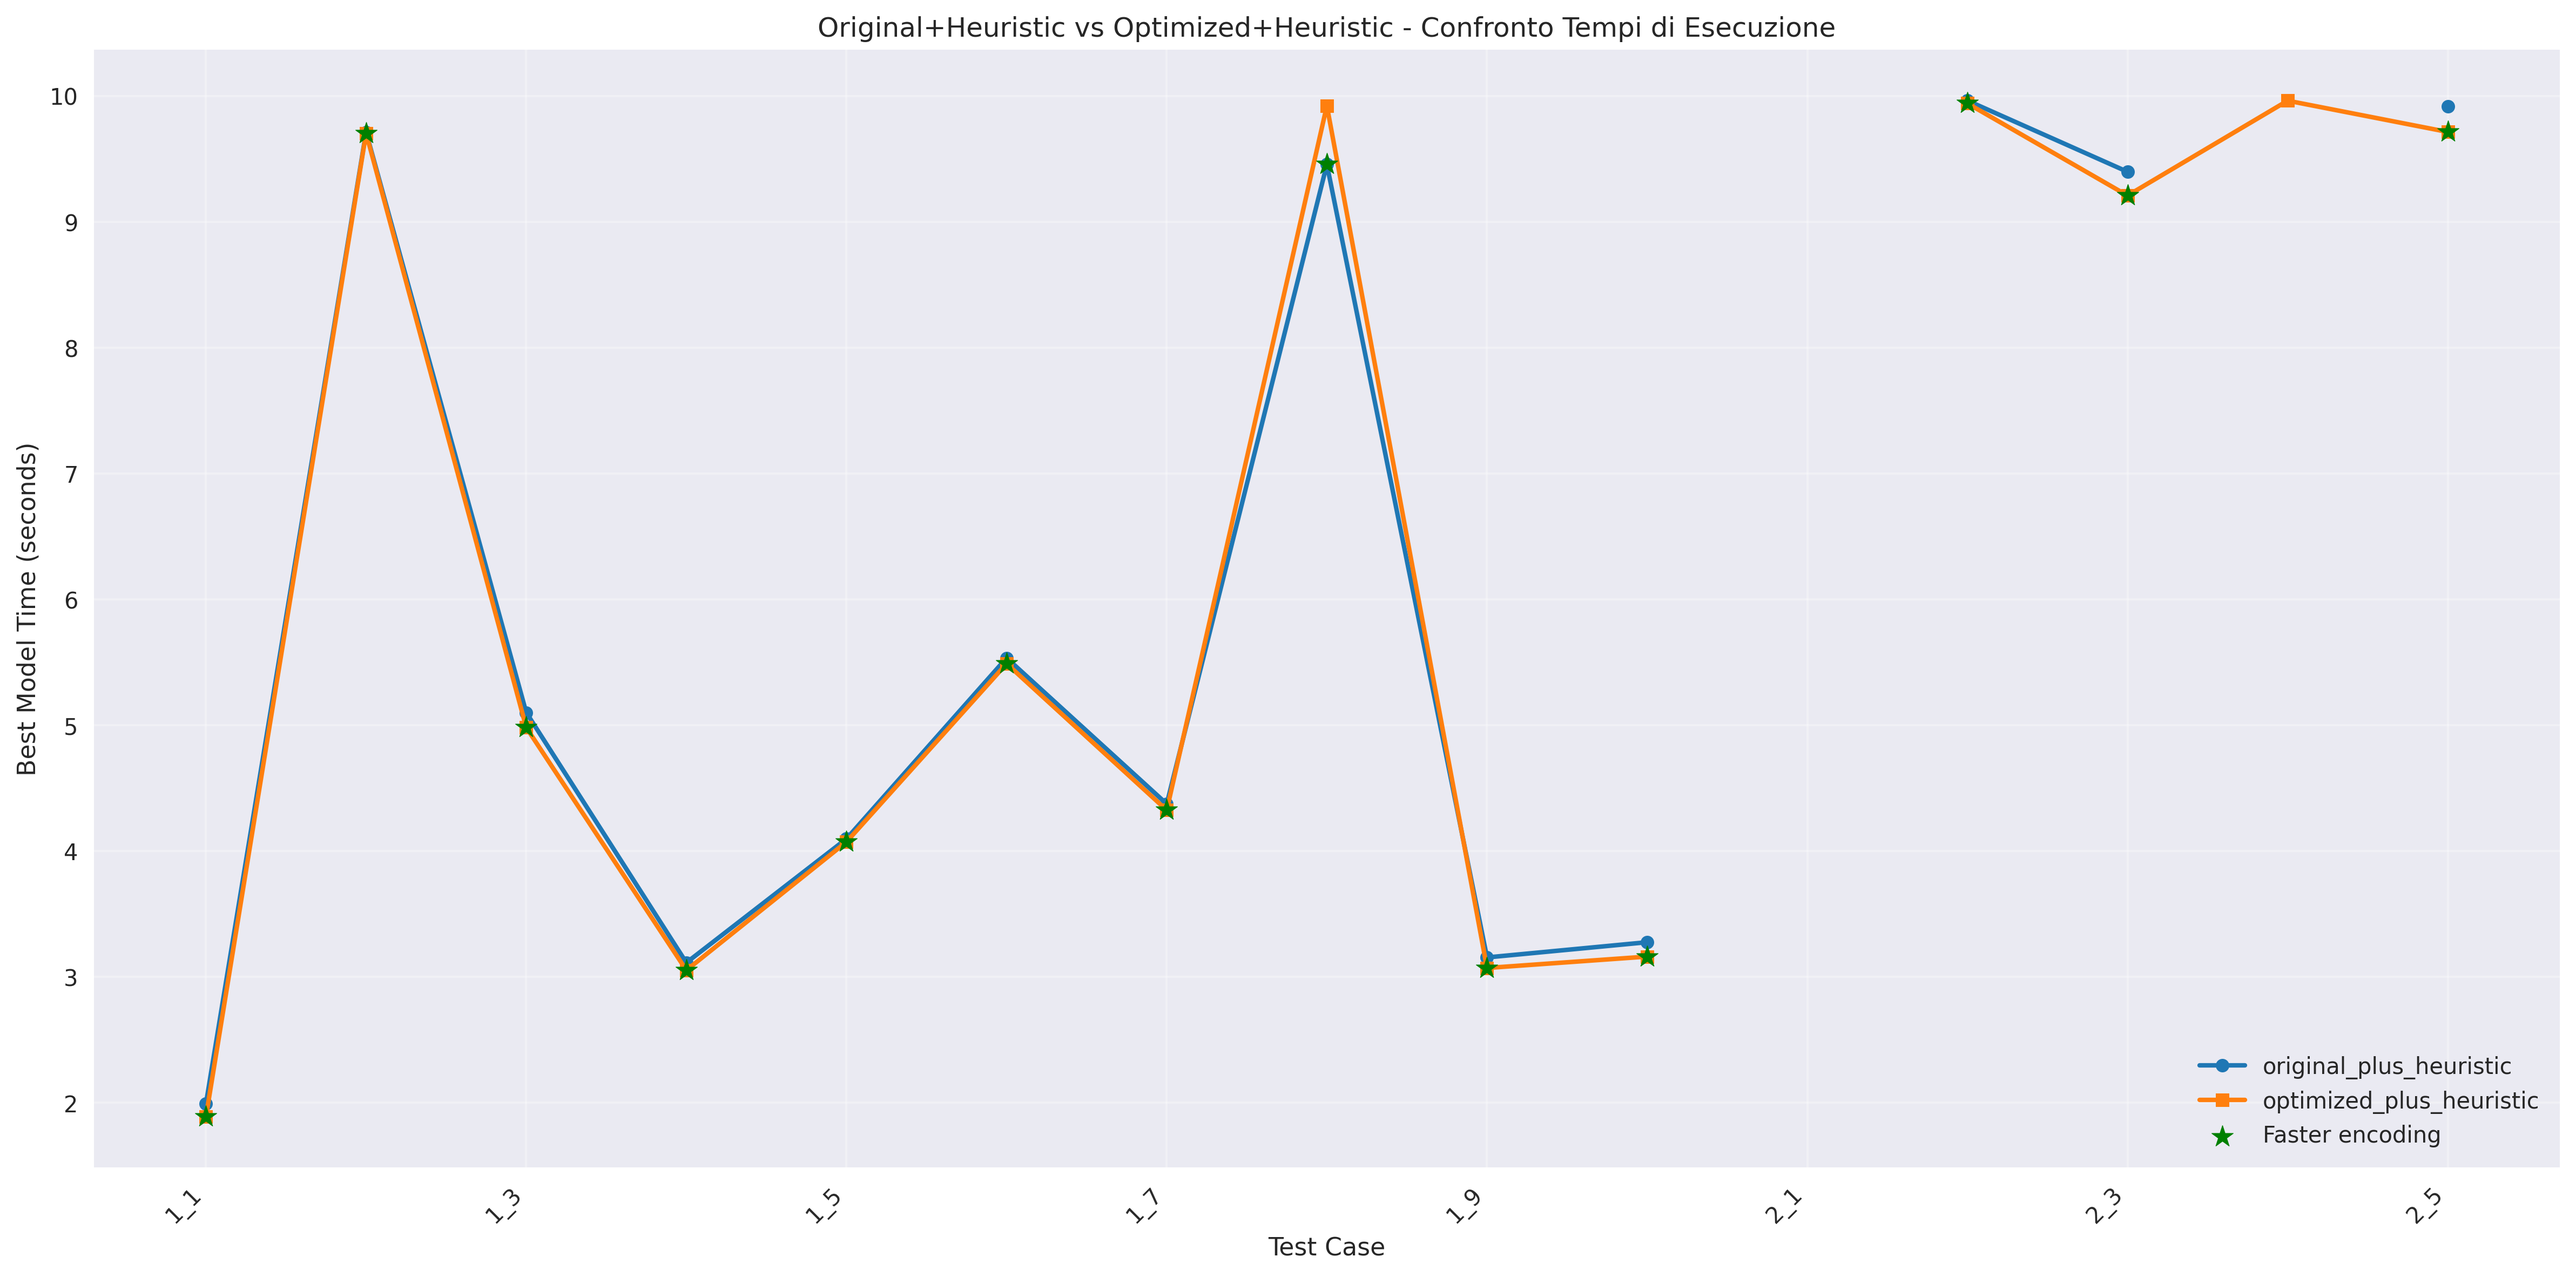
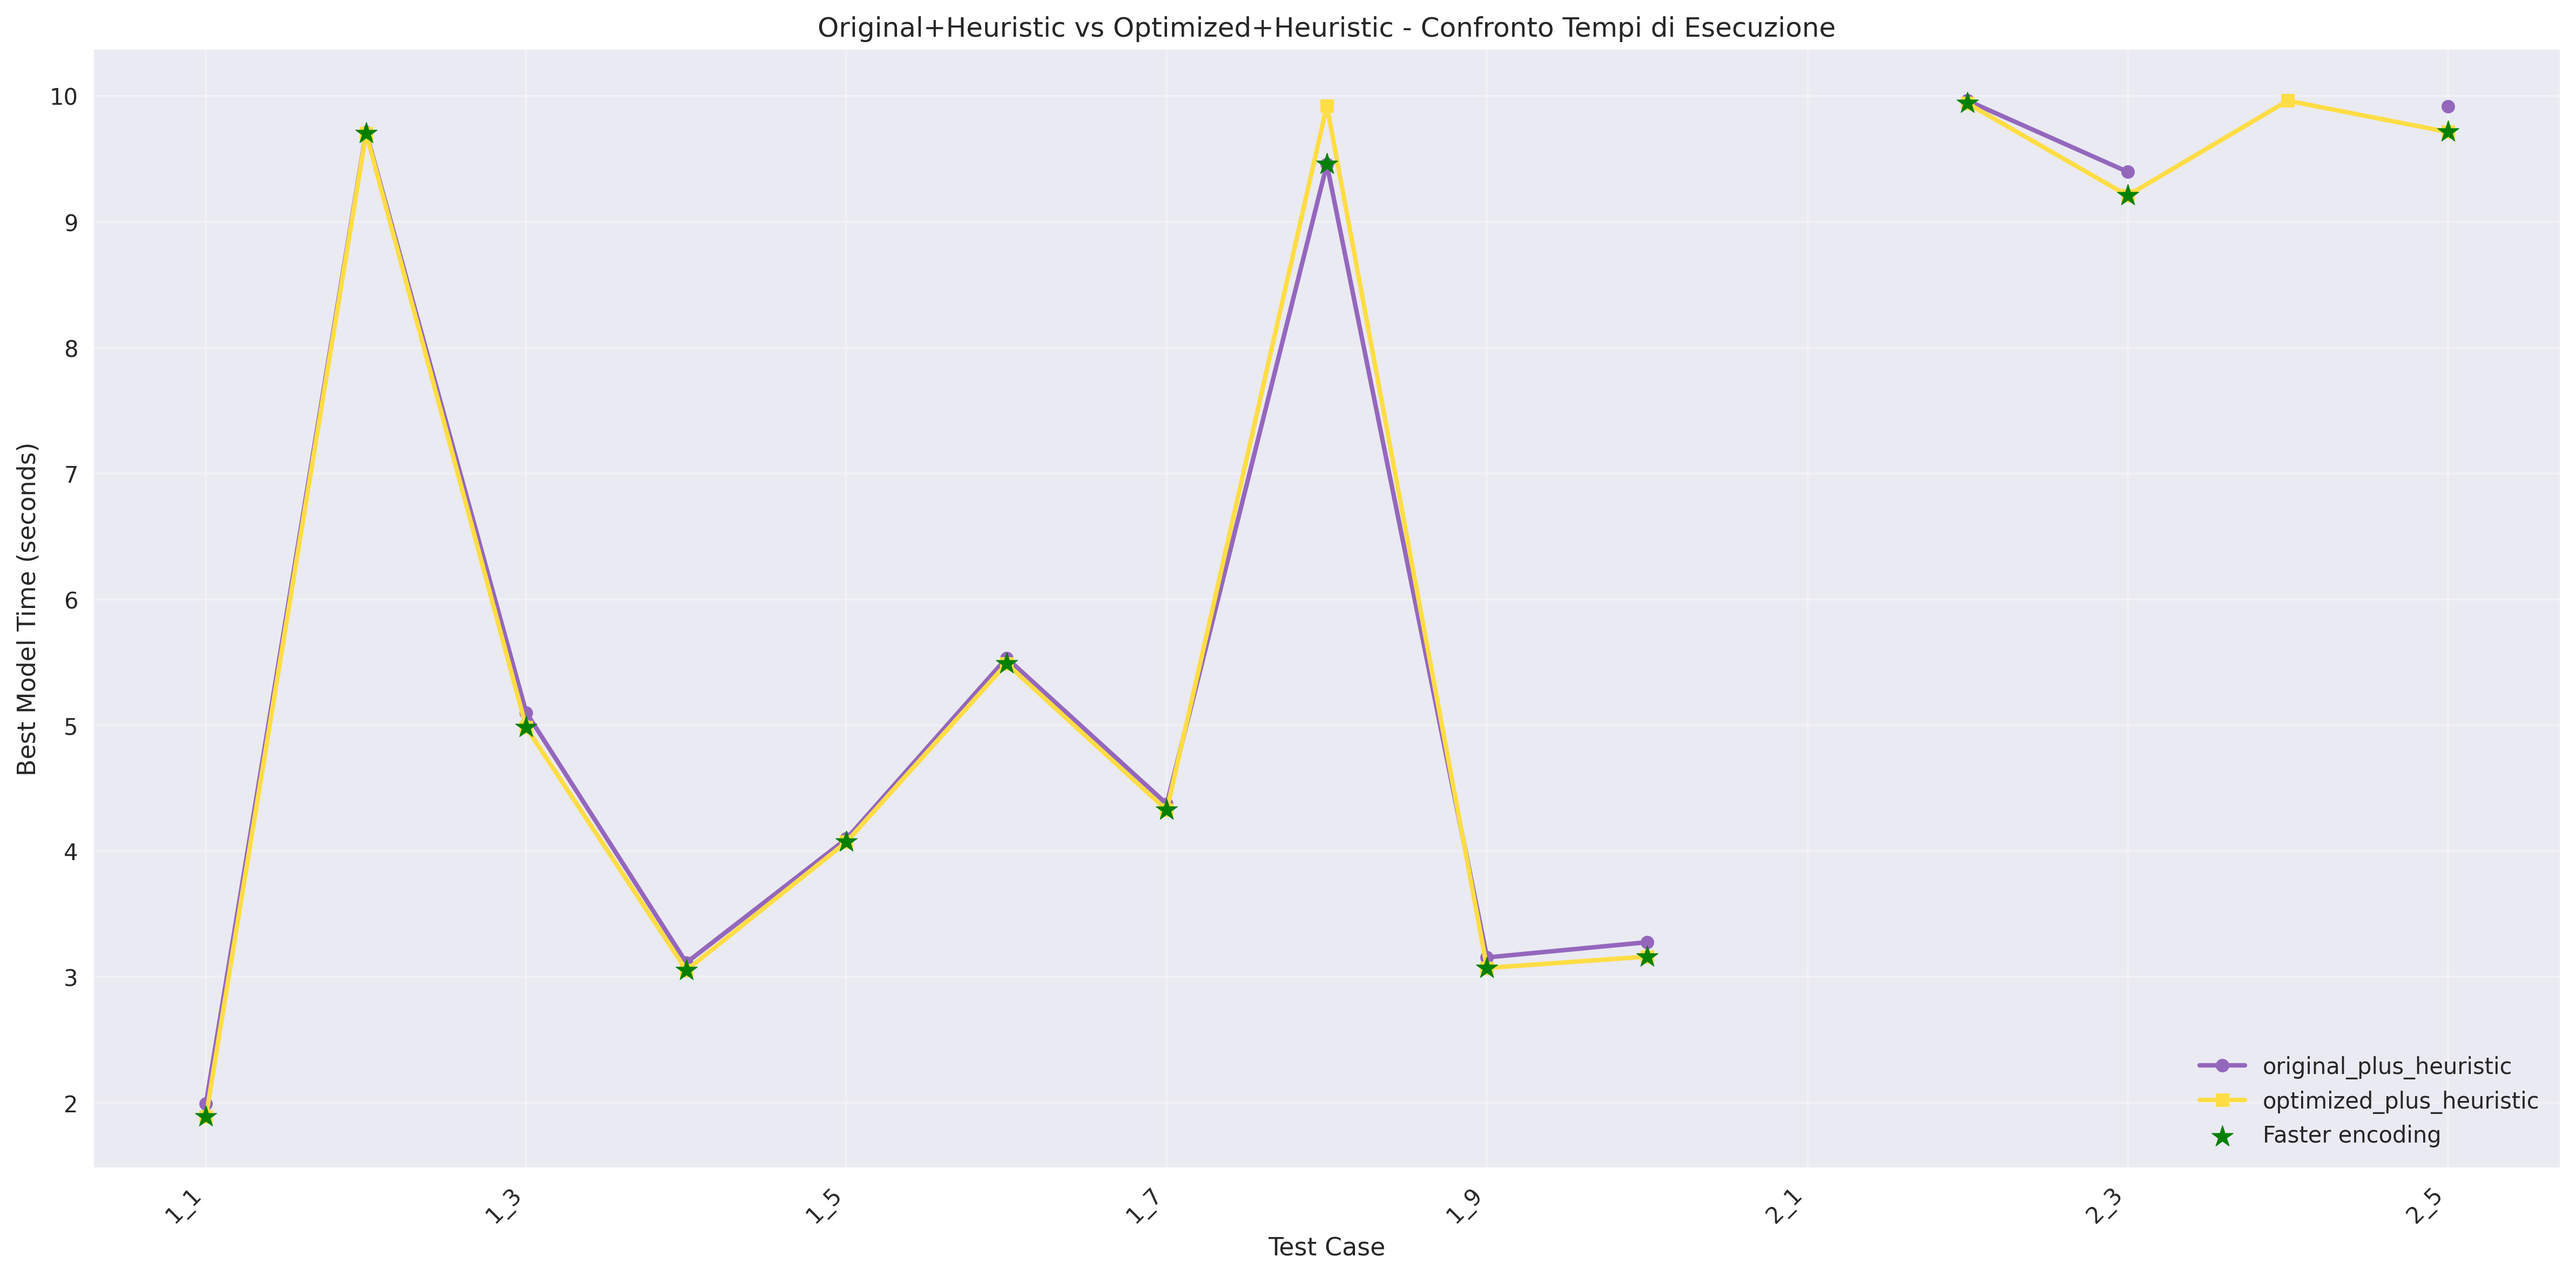
fix

diff --git a/Results/5_generate_graphs.py b/Results/5_generate_graphs.py
@@ -50,9 +50,16 @@ def create_cost_comparison_charts(df, encoding1, encoding2, title_prefix=""):
     
     fig.suptitle(f'{title_prefix} - Confronto Costi (Lower is Better)', fontsize=16, fontweight='bold')
     
-    # Colori fissi per i due encoding
-    color1 = '#1f77b4'  # Blu per il primo encoding
-    color2 = '#ff7f0e'  # Arancione per il secondo encoding
+    # Schema colori basato sui tipi di encoding
+    color_map = {
+        'original': '#1f77b4',  # Blu
+        'optimized': '#ff7f0e',  # Arancione
+        'original_plus_heuristic': "#69428d",  # Viola
+        'optimized_plus_heuristic': "#ddbd30"  # Giallo
+    }
+    
+    color1 = color_map.get(encoding1, '#1f77b4')
+    color2 = color_map.get(encoding2, '#ff7f0e')
     
     for group in range(n_groups):
         start_idx = group * 10
@@ -193,64 +200,119 @@ def create_cost_comparison_charts(df, encoding1, encoding2, title_prefix=""):
     return fig
 
 def create_time_comparison_chart(df, encoding1, encoding2, title_prefix=""):
-    """Crea line chart per confrontare i tempi di esecuzione"""
+    """Crea bar chart per confrontare i tempi di esecuzione tra due encoding"""
     df_filtered = df[df['encoding_type'].isin([encoding1, encoding2])]
+    
+    # Ordina per test_case usando ordinamento naturale
     test_cases = sorted(df_filtered['test_case'].unique(), key=natural_sort_key)
+    n_cases = len(test_cases)
     
-    fig, ax = plt.subplots(1, 1, figsize=(16, 8))
+    # Dividi in gruppi di 10
+    n_groups = (n_cases + 9) // 10  # Ceiling division
     
-    times1 = []
-    times2 = []
-    case_labels = []
+    fig, axes = plt.subplots(n_groups, 1, figsize=(16, 4 * n_groups))
+    if n_groups == 1:
+        axes = [axes]
     
-    for case in test_cases:
-        case_labels.append(case)
+    fig.suptitle(f'{title_prefix} - Confronto Tempi di Esecuzione (Lower is Better)', fontsize=16, fontweight='bold')
+    
+    # Schema colori basato sui tipi di encoding
+    color_map = {
+        'original': '#1f77b4',  # Blu
+        'optimized': '#ff7f0e',  # Arancione
+        'original_plus_heuristic': "#69428d",  # Viola
+        'optimized_plus_heuristic': "#ddbd30"  # Giallo
+    }
+    
+    color1 = color_map.get(encoding1, '#1f77b4')
+    color2 = color_map.get(encoding2, '#ff7f0e')
+    
+    for group in range(n_groups):
+        start_idx = group * 10
+        end_idx = min(start_idx + 10, n_cases)
+        group_cases = test_cases[start_idx:end_idx]
         
-        # Dati per encoding1
-        case_data1 = df_filtered[(df_filtered['test_case'] == case) & 
-                                (df_filtered['encoding_type'] == encoding1)]
-        if len(case_data1) > 0 and not pd.isna(case_data1.iloc[0]['best_model_time']):
-            times1.append(case_data1.iloc[0]['best_model_time'])
-        else:
-            times1.append(np.nan)
+        # Prepara dati per il gruppo corrente
+        time_data = {encoding1: [], encoding2: []}
+        case_labels = []
         
-        # Dati per encoding2
-        case_data2 = df_filtered[(df_filtered['test_case'] == case) & 
-                                (df_filtered['encoding_type'] == encoding2)]
-        if len(case_data2) > 0 and not pd.isna(case_data2.iloc[0]['best_model_time']):
-            times2.append(case_data2.iloc[0]['best_model_time'])
-        else:
-            times2.append(np.nan)
+        # Lista per tenere traccia delle differenze
+        time_differences = []
+        
+        for case in group_cases:
+            case_labels.append(case)
+            
+            # Raccogli dati per entrambi gli encoding
+            case_data_enc1 = df_filtered[(df_filtered['test_case'] == case) & 
+                                        (df_filtered['encoding_type'] == encoding1)]
+            case_data_enc2 = df_filtered[(df_filtered['test_case'] == case) & 
+                                        (df_filtered['encoding_type'] == encoding2)]
+            
+            # Best model time
+            time_enc1 = case_data_enc1.iloc[0]['best_model_time'] if len(case_data_enc1) > 0 and not pd.isna(case_data_enc1.iloc[0]['best_model_time']) else np.nan
+            time_enc2 = case_data_enc2.iloc[0]['best_model_time'] if len(case_data_enc2) > 0 and not pd.isna(case_data_enc2.iloc[0]['best_model_time']) else np.nan
+            
+            time_data[encoding1].append(time_enc1)
+            time_data[encoding2].append(time_enc2)
+            
+            # Controlla differenze
+            time_diff = None
+            
+            if not np.isnan(time_enc1) and not np.isnan(time_enc2):
+                if time_enc1 != time_enc2:
+                    time_diff = 'better' if time_enc2 < time_enc1 else 'worse'
+            
+            time_differences.append(time_diff)
+        
+        # Grafico tempi
+        ax = axes[group]
+        x = np.arange(len(case_labels))
+        width = 0.35
+        
+        bars1 = ax.bar(x - width/2, time_data[encoding1], width, 
+                       label=encoding1, alpha=0.8, color=color1)
+        bars2 = ax.bar(x + width/2, time_data[encoding2], width, 
+                       label=encoding2, alpha=0.8, color=color2)
+        
+        ax.set_ylabel('Best Model Time (seconds)')
+        if group == 0:
+            ax.set_title('Tempi di Esecuzione')
+        ax.set_xticks(x)
+        ax.set_xticklabels(case_labels, rotation=45, ha='right')
+        ax.grid(True, alpha=0.3)
+        
+        # Aggiungi valori sulle barre e asterischi per differenze
+        for i, (bar1, bar2, diff) in enumerate(zip(bars1, bars2, time_differences)):
+            height1 = bar1.get_height()
+            height2 = bar2.get_height()
+            
+            if not np.isnan(height1):
+                ax.annotate(f'{height1:.3f}', xy=(bar1.get_x() + bar1.get_width() / 2, height1),
+                           xytext=(0, 3), textcoords="offset points", ha='center', va='bottom', fontsize=8)
+            
+            if not np.isnan(height2):
+                ax.annotate(f'{height2:.3f}', xy=(bar2.get_x() + bar2.get_width() / 2, height2),
+                           xytext=(0, 3), textcoords="offset points", ha='center', va='bottom', fontsize=8)
+                
+                # Aggiungi asterisco per differenze
+                if diff is not None:
+                    max_height = max([h for h in time_data[encoding1] + time_data[encoding2] if not np.isnan(h)])
+                    ax.text(bar2.get_x() + bar2.get_width() / 2, height2 + max_height * 0.05,
+                           '★', ha='center', va='bottom', fontsize=12, fontweight='bold',
+                           color='#2ca02c' if diff == 'better' else '#d62728')
     
-    x = np.arange(len(case_labels))
-    
-    # Line plot
-    ax.plot(x, times1, marker='o', linewidth=2, markersize=6, 
-           label=encoding1, color='#1f77b4')
-    ax.plot(x, times2, marker='s', linewidth=2, markersize=6, 
-           label=encoding2, color='#ff7f0e')
-    
-    ax.set_xlabel('Test Case')
-    ax.set_ylabel('Best Model Time (seconds)')
-    ax.set_title(f'{title_prefix} - Confronto Tempi di Esecuzione')
-    ax.set_xticks(x[::2])  # Mostra ogni secondo label per evitare sovrapposizioni
-    ax.set_xticklabels([case_labels[i] for i in range(0, len(case_labels), 2)], 
-                      rotation=45, ha='right')
-    ax.grid(True, alpha=0.3)
-    
-    # Evidenzia quale encoding è più veloce per ogni caso
-    for i, (t1, t2) in enumerate(zip(times1, times2)):
-        if not np.isnan(t1) and not np.isnan(t2):
-            if t1 < t2:
-                ax.scatter(i, t1, color='green', s=100, marker='*', zorder=5)
-            elif t2 < t1:
-                ax.scatter(i, t2, color='green', s=100, marker='*', zorder=5)
-    
-    # Aggiungi legenda per le stelle
-    ax.scatter([], [], color='green', s=100, marker='*', label='Faster encoding')
-    ax.legend()
+    # Aggiungi una singola legenda per tutta la figura
+    from matplotlib.patches import Patch
+    legend_elements = [
+        Patch(facecolor=color1, alpha=0.8, label=encoding1),
+        Patch(facecolor=color2, alpha=0.8, label=encoding2),
+        Patch(facecolor='#2ca02c', alpha=0.8, label=f'{encoding2} (faster)'),
+        Patch(facecolor='#d62728', alpha=0.8, label=f'{encoding2} (slower)')
+    ]
+    fig.legend(handles=legend_elements, loc='upper center', bbox_to_anchor=(0.5, 0.02), ncol=4, fontsize=10)
     
     plt.tight_layout()
+    plt.subplots_adjust(bottom=0.1)  # Lascia spazio per la legenda
     return fig
 
 def create_performance_summary_table(df):
@@ -365,20 +427,48 @@ def main():
     fig2.savefig(output_dir / 'cost_comparison_heuristic.png', dpi=300, bbox_inches='tight')
     plt.close(fig2)
     
-    # 3. Confronto tempi Original vs Optimized
-    print("Generando confronto tempi Original vs Optimized...")
-    fig3 = create_time_comparison_chart(df, 'original', 'optimized', "Original vs Optimized")
-    fig3.savefig(output_dir / 'time_comparison_original_vs_optimized.png', dpi=300, bbox_inches='tight')
+    # 3. Confronto costi Original vs Original+Heuristic
+    print("Generando confronto costi Original vs Original+Heuristic...")
+    fig3 = create_cost_comparison_charts(df, 'original', 'original_plus_heuristic', 
+                                        "Original vs Original+Heuristic")
+    fig3.savefig(output_dir / 'cost_comparison_original_vs_original_heuristic.png', dpi=300, bbox_inches='tight')
     plt.close(fig3)
     
-    # 4. Confronto tempi con euristiche
-    print("Generando confronto tempi con euristiche...")
-    fig4 = create_time_comparison_chart(df, 'original_plus_heuristic', 'optimized_plus_heuristic', 
-                                       "Original+Heuristic vs Optimized+Heuristic")
-    fig4.savefig(output_dir / 'time_comparison_heuristic.png', dpi=300, bbox_inches='tight')
+    # 4. Confronto costi Optimized vs Optimized+Heuristic
+    print("Generando confronto costi Optimized vs Optimized+Heuristic...")
+    fig4 = create_cost_comparison_charts(df, 'optimized', 'optimized_plus_heuristic', 
+                                        "Optimized vs Optimized+Heuristic")
+    fig4.savefig(output_dir / 'cost_comparison_optimized_vs_optimized_heuristic.png', dpi=300, bbox_inches='tight')
     plt.close(fig4)
     
-    # 5. Tabella riassuntiva
+    # 5. Confronto tempi Original vs Optimized
+    print("Generando confronto tempi Original vs Optimized...")
+    fig5 = create_time_comparison_chart(df, 'original', 'optimized', "Original vs Optimized")
+    fig5.savefig(output_dir / 'time_comparison_original_vs_optimized.png', dpi=300, bbox_inches='tight')
+    plt.close(fig5)
+    
+    # 6. Confronto tempi con euristiche
+    print("Generando confronto tempi con euristiche...")
+    fig6 = create_time_comparison_chart(df, 'original_plus_heuristic', 'optimized_plus_heuristic', 
+                                       "Original+Heuristic vs Optimized+Heuristic")
+    fig6.savefig(output_dir / 'time_comparison_heuristic.png', dpi=300, bbox_inches='tight')
+    plt.close(fig6)
+    
+    # 7. Confronto tempi Original vs Original+Heuristic
+    print("Generando confronto tempi Original vs Original+Heuristic...")
+    fig7 = create_time_comparison_chart(df, 'original', 'original_plus_heuristic', 
+                                       "Original vs Original+Heuristic")
+    fig7.savefig(output_dir / 'time_comparison_original_vs_original_heuristic.png', dpi=300, bbox_inches='tight')
+    plt.close(fig7)
+    
+    # 8. Confronto tempi Optimized vs Optimized+Heuristic
+    print("Generando confronto tempi Optimized vs Optimized+Heuristic...")
+    fig8 = create_time_comparison_chart(df, 'optimized', 'optimized_plus_heuristic', 
+                                       "Optimized vs Optimized+Heuristic")
+    fig8.savefig(output_dir / 'time_comparison_optimized_vs_optimized_heuristic.png', dpi=300, bbox_inches='tight')
+    plt.close(fig8)
+    
+    # 9. Tabella riassuntiva
     print("Generando tabella riassuntiva...")
     summary_table = create_performance_summary_table(df)
     summary_table.to_csv(output_dir / 'performance_summary.csv', index=False)
@@ -393,8 +483,12 @@ def main():
     print("File generati:")
     print("- cost_comparison_original_vs_optimized.png")
     print("- cost_comparison_heuristic.png")
+    print("- cost_comparison_original_vs_original_heuristic.png")
+    print("- cost_comparison_optimized_vs_optimized_heuristic.png")
     print("- time_comparison_original_vs_optimized.png")
     print("- time_comparison_heuristic.png")
+    print("- time_comparison_original_vs_original_heuristic.png")
+    print("- time_comparison_optimized_vs_optimized_heuristic.png")
     print("- performance_summary.csv")
 
 if __name__ == "__main__":
